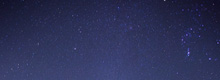
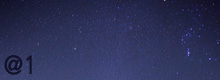
Add files via upload

Changed region(s): [[0.0, 0.675, 0.1636, 0.95]]

diff --git a/index.html b/index.html
@@ -201,18 +201,18 @@
               <div class="blog1">
                 <h5 class="ir_su">image1</h5>
                 <figure>
-                  <img src="img/blog1_@1.jpg" alt="normal image">
-                  <img src="img/blog1_@2.jpg" alt="retina image" width="100%">
+                  <img src="img/blog1_@1.jpg" class="img-normal" alt="normal image">
+                  <img src="img/blog1_@2.jpg" class="img-retina" alt="retina image" width="100%">
+                  <!-- <img src="img/blog1_@1.jpg" srcset="img/blog1_@1.jpg 1x, img/blog1_@2.jpg 2x" alt="normal image"> -->
                   <figcaption>반응형 웹 사이트 이미지 글입니다. 반응형 웹 사이트 이미지 글입니다. 반응형 웹 사이트 이미지 글입니다.</figcaption>
                 </figure>
               </div>
               <!-- //blog1  -->
               <!-- blog2 -->
-              <div class="blog1">
+              <div class="blog2">
                 <h5 class="ir_su">image2</h5>
                 <figure>
-                  <img src="img/blog2_@1.jpg" alt="normal image">
-                  <img src="img/blog2_@2.jpg" alt="retina image" width="100%">
+                  <img src="img/blog2_@1.jpg" srcset="img/blog2_@1.jpg 1x, img/blog2_@2.jpg 2x" alt="normal image">
                   <figcaption>반응형 웹 사이트 이미지 글입니다. 반응형 웹 사이트 이미지 글입니다. 반응형 웹 사이트 이미지 글입니다.</figcaption>
                 </figure>
               </div>

diff --git a/css/style.css b/css/style.css
@@ -236,6 +236,17 @@ max-height: 40px; /* ie 버전때문에 넣어준거.*/
   font-size: 10px;
 }
 
+/* 블로그1 */
+.blog1 img {width: 100%;}
+.blog1 .img-retina {display: none;}
+
+@media only screen and (-webkit-min-device-pixel-ratio: 1.5),
+       only screen and (min-device-pixel-ratio: 1.5),
+       only screen and (min-resolution: 1.5dppx) {
+        .blog1 .img-retina {display: initial;}
+        .blog1 .img-normal {display: none;}
+}
+
 /* mediaquery */
 /* 화면 너비 0 ~ 1220px 기본모니터 더큰거*/
 @media (max-width:1220px) {
